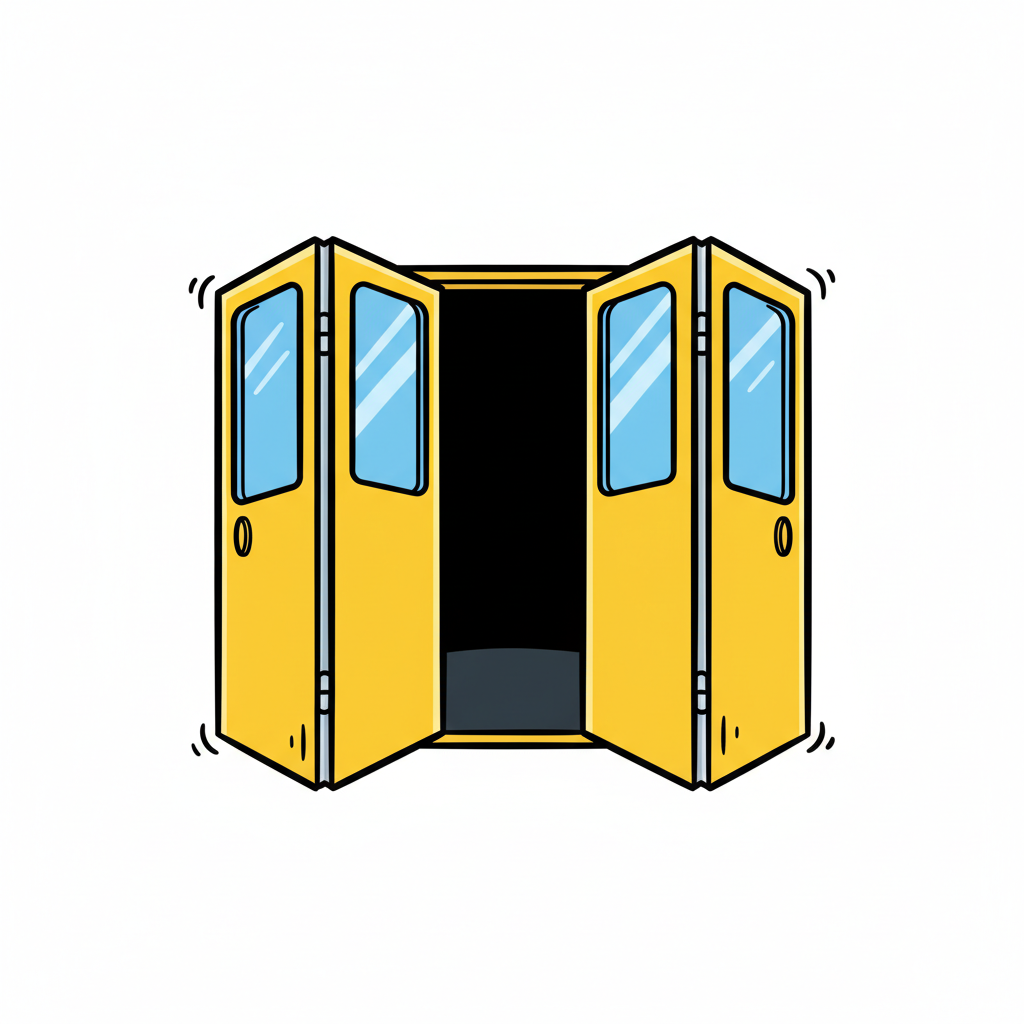
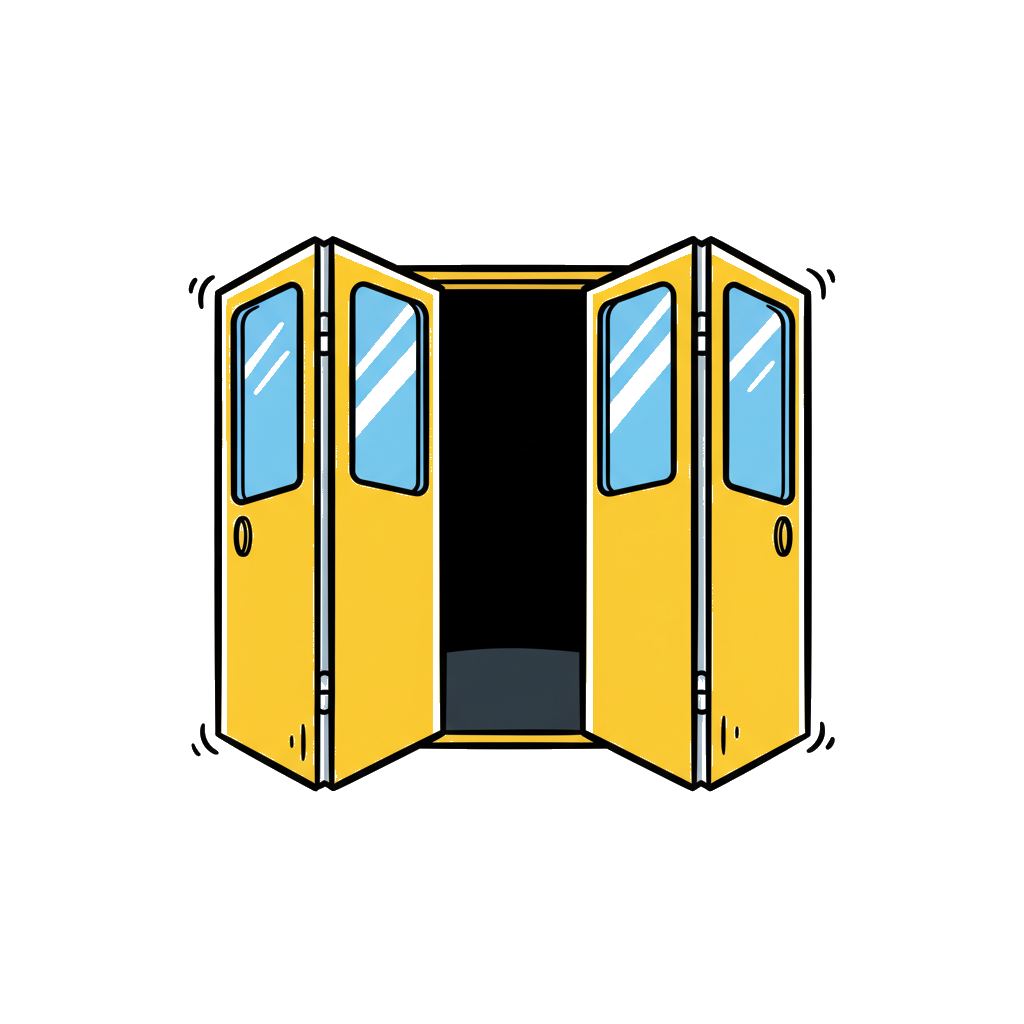
Added bus stopping functionality and displayed doors as closed or opened

diff --git a/Source/Main.cpp b/Source/Main.cpp
@@ -25,6 +25,8 @@ std::map<char, Character> Characters;
 
 unsigned signatureTex;
 unsigned busTex;
+unsigned doorsOpenTex;
+unsigned doorsClosedTex;
 
 unsigned int VBO;
 
@@ -260,17 +262,35 @@ void drawStations(unsigned int shader, unsigned int vao, const GLFWvidmode* mode
     }
 }
 
-void drawBus(unsigned int shader, unsigned int vao) {
+void drawBus(unsigned int shader, unsigned int vao, bool &busStopped) {
     static int currentStation = 0;
     static int nextStation = 1;
     static float distanceTraveled = 0.0f;
+    static double stopStartTime = 0.0;
+
     const float speed = 0.15f;
     const int segments = 100;
+    const double stopDuration = 10.0; // 10 seconds
+
+    // Determine if bus is stopped
+    if (distanceTraveled == 0.0f) {
+        if (stopStartTime == 0.0) stopStartTime = glfwGetTime();
+        double elapsed = glfwGetTime() - stopStartTime;
+        if (elapsed < stopDuration) {
+            busStopped = true; // Bus stays stopped
+        } else {
+            stopStartTime = 0.0; // Reset timer
+            busStopped = false;
+        }
+    } else {
+        busStopped = false;
+    }
 
     glUseProgram(shader);
     glActiveTexture(GL_TEXTURE0);
     glBindTexture(GL_TEXTURE_2D, busTex);
 
+    // Control curve center
     float cx = (stations[currentStation].x + stations[nextStation].x) / 2.0f;
     float cy = (stations[currentStation].y + stations[nextStation].y) / 2.0f;
 
@@ -283,6 +303,7 @@ void drawBus(unsigned int shader, unsigned int vao) {
         cy += dx / length * offset;
     }
 
+    // Compute total length of the Bezier segment
     float totalLength = 0.0f;
     float lastX = stations[currentStation].x;
     float lastY = stations[currentStation].y;
@@ -296,13 +317,21 @@ void drawBus(unsigned int shader, unsigned int vao) {
         lastY = y;
     }
 
-    distanceTraveled += speed / 75.0f;
+    // Move bus only if not stopped
+    if (!busStopped) {
+        distanceTraveled += speed / 75.0f;
+    }
+
+    // If finished segment, move to next station
     if (distanceTraveled >= totalLength) {
         distanceTraveled = 0.0f;
         currentStation = nextStation;
         nextStation = (nextStation + 1) % 10;
+        busStopped = true;
+        stopStartTime = glfwGetTime();
     }
 
+    // Find bus position along the curve
     float traveled = 0.0f;
     float busX = stations[currentStation].x;
     float busY = stations[currentStation].y;
@@ -380,6 +409,14 @@ void drawBusPaths(unsigned int shader) {
     }
 }
 
+void drawDoors(unsigned int shader, unsigned int vao, bool busStopped) {
+    glUseProgram(shader);
+    glActiveTexture(GL_TEXTURE0);
+    glBindTexture(GL_TEXTURE_2D, busStopped ? doorsOpenTex : doorsClosedTex);
+    glBindVertexArray(vao);
+    glDrawArrays(GL_TRIANGLE_FAN, 0, 4);
+}
+
 int main()
 {
     glfwInit();
@@ -404,9 +441,9 @@ int main()
 
     preprocessTexture(signatureTex, "../Resources/signature.png");
 
-    unsigned int signatureShader = createShader("../Shaders/signature.vert", "../Shaders/signature.frag");
-    glUseProgram(signatureShader);
-    glUniform1i(glGetUniformLocation(signatureShader, "signatureTex"), 0);
+    unsigned int simpleTextureShader = createShader("../Shaders/simple_texture.vert", "../Shaders/simple_texture.frag");
+    glUseProgram(simpleTextureShader);
+    glUniform1i(glGetUniformLocation(simpleTextureShader, "signatureTex"), 0);
 
     preprocessTexture(busTex, "../Resources/bus.png");
 
@@ -422,6 +459,9 @@ int main()
 
     unsigned int pathShader = createShader("../Shaders/path.vert", "../Shaders/path.frag");
     glUseProgram(pathShader);
+
+    preprocessTexture(doorsClosedTex, "../Resources/doors_closed.png");
+    preprocessTexture(doorsOpenTex, "../Resources/doors_open.png");
 
     float verticesSignature[] = {
         0.5f, -0.7f, 0.0f, 1.0f, // gornje levo teme
@@ -463,7 +503,19 @@ int main()
     unsigned int VAOstations;
     formVAOPositionOnly(verticesStation, sizeof(verticesStation), VAOstations);
 
+    float verticesDoors[] = {
+        -1.0f, -0.5f, 0.0f, 1.0f, // gornje levo teme
+        -1.0f, -1.0f, 0.0f, 0.0f, // donje levo teme
+        -0.65, -1.0f, 1.0f, 0.0f, // donje desno teme
+        -0.65f, -0.5f, 1.0f, 1.0f, // gornje desno teme
+   };
+
+    unsigned int VAOdoors;
+    formVAOTexture(verticesDoors, sizeof(verticesDoors), VAOdoors);
+
     glClearColor(0.2f, 0.2f, 0.2f, 1.0f);
+
+    bool busStopped = false;
 
     while (!glfwWindowShouldClose(window))
     {
@@ -474,10 +526,11 @@ int main()
 
         glClear(GL_COLOR_BUFFER_BIT);
 
-        drawSignature(signatureShader, VAOsignature);
+        drawSignature(simpleTextureShader, VAOsignature);
         drawStations(stationShader, VAOstations, mode);
         drawBusPaths(pathShader);
-        drawBus(busShader, VAOBus);
+        drawBus(busShader, VAOBus, busStopped);
+        drawDoors(simpleTextureShader, VAOdoors, busStopped);
 
         glfwSwapBuffers(window);
         glfwPollEvents();
